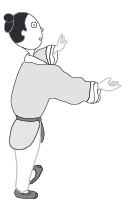
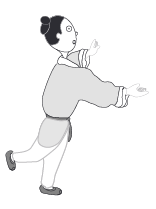
Add files via upload

Changed region(s): [[0.0238, 0.0574, 0.9762, 0.9761], [0.5952, 0.1722, 0.6429, 0.2297]]

diff --git a/sketch.js b/sketch.js
@@ -1,63 +1,106 @@
-var posx=0
+var posx=0;
 var stopspeed=0;
 var width,height;
 var value = 0;
-var birdx=0;
+var manx=0;
 var speed=2;
-var img;
+var mimg,winimg,kissimg;
 var manY,wmanY;
 var y=0;;
-var song;
-var millisecond
+var song,kiss;
+var millisecond,bgm;
+var gaptime,stime,etime;
+
+var againBtn = document.querySelector('.again-btn');
+if (againBtn) {
+        againBtn.addEventListener('click', function() {
+        window.location.reload(true);
+    });
+}
+
+function showBtn() {
+    console.log(againBtn);
+    againBtn.classList.add("show");
+}
 
  function preload() {
-   img = loadImage('man1.png');
+   mimg = loadImage('man1.png');
+   wimg = loadImage('wman1.png');
+   kissimg  = loadImage('kiss.png');
+    winimg  = loadImage('win.png'); 
+  // endimg = loadImage('end.png');
    song = loadSound('ya.mp3');
-   console.log(img);
+   kiss= loadSound('kisssound.mp3');
+   bgm= loadSound('bgm.mp3');
+   //console.log(img);
+   //console.log(img);
    //print(load);
  }
 
 
 function setup() {
-  width=1000;
-  height=400;
-  createCanvas(width, height);
+  var canvas = createCanvas(windowWidth, windowHeight);
+  canvas.parent("container");
   manY=height/2;
-  millisecond = millis();
+  stime = millis();
+  
 }
 
 
 function draw() {
-  background(220);
+//    bgm.play();
+   // 
+//    console.log(millis());
+  background(255,226,0);
   noStroke();
+  etime = millis();
+  gaptime = etime-stime;
+  //print(gaptime);
   
-  if(birdx<width/2){
-    birdx=posx+stopspeed;
+if(gaptime<7000){
+    if(manx<width/2-20){
+    manx=posx+stopspeed;
     posx+=speed;
-  }else{
-     background(242,156,177);
+  }
+    else{
+     //lose
+     //background(0);  
+     kiss.play();
+     noLoop();
+     image(kissimg,0,0);
+        showBtn();
     }
+}else{
+    //win
+    background(255);
+    
+    image(winimg,0,0);
+    
+    
+    showBtn();
+}
+  
 
   manY=180+sin(y)*10;
   wmanY=180+cos(y)*10;
-  y +=0.1;
+  y +=0.05;
   //console.log(manY);
     
-  image(img,birdx,manY);
-  image(img,width-birdx,wmanY);
+  
+  image(wimg,width-manx,wmanY);
+  image(mimg,manx,manY);
   //ellipse(birdx,200,50,50);
   //ellipse(width-birdx,200,50,50);
   //print(birdx);
   //test touch
   
-
 }
 
  function touchStart(){
   // if(value ===0){
     stop-=20;
     song.play();
-    console.log("sound");
+    kiss.play();
     // print("b");
   // }else{
   //   stop=0;
@@ -66,7 +109,9 @@ function draw() {
  }
 
 function mousePressed(){
+    
   stopspeed-=20;
+    //kiss.play();
   song.play();
   //print(stop);
 }

diff --git a/index.html b/index.html
@@ -2,11 +2,60 @@
 <html>
   <head>
     <meta charset="UTF-8">
-    <title>快戳屏幕！</title>
-    <style> body {padding: 0; margin: 0;} canvas {vertical-align: top;} </style>
+      <meta name="viewport" content="width=device-width, initial-scale=1.0, maximum-scale=1.0, user-scalable=0"> 
+
+    <title>拆桥队</title>
+    <style> 
+        body {
+            margin: 0;
+            overflow: hidden;
+            font-family: sans-serif;
+        } 
+        .container {
+            width: 100vw;
+            height: 100vh;
+            overflow: hidden;
+        }
+        .controller {
+            position: absolute;
+            top: 30px;
+            left: 50%;
+            transform: translate(-50%, 0);
+        }
+        .controller .again-btn {
+            display: block;
+            border: none;
+            padding: 2px 10px;
+            background: #f00;
+            font-size: 2em;
+            outline: none;
+            
+            opacity: 0;
+            z-index: -1;
+        }
+        
+        .again-btn.show {
+            opacity: 1;
+            z-index: 1;
+        }
+        
+        .again-btn:active {
+            background: #ff0;
+        }
+      </style>
     <script src="libraries/p5.js" type="text/javascript"></script>
     <script src="libraries/p5.dom.js" type="text/javascript"></script>
-    <script src="sketch.js" type="text/javascript"></script>
+    <script src="libraries/p5.sound.min.js"></script>
+    
+    
+  </head>
+  <body>
+      <div class="container" id="container"></div>
+      <div class="controller">
+        <button class="again-btn">再拆一次</button>
+      </div>
+      
+      <script src="sketch.js" type="text/javascript"></script>
     <script>
       var _hmt = _hmt || [];
       (function() {
@@ -16,8 +65,5 @@
         s.parentNode.insertBefore(hm, s);
       })();
       </script>
-    
-  </head>
-  <body>
   </body>
 </html>
